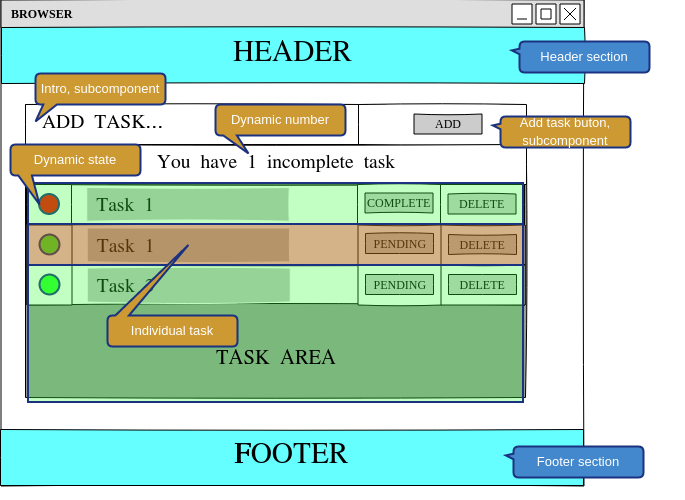
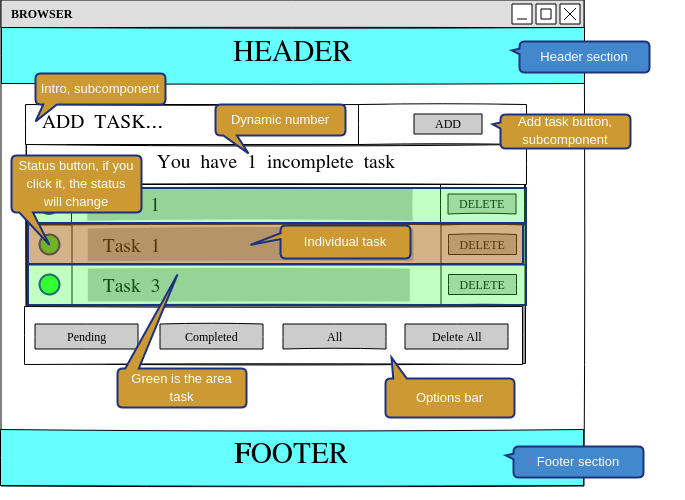
Todo App v 1.0.0

diff --git a/index.html b/index.html
@@ -6,14 +6,81 @@
     <meta name="viewport" content="width=device-width, initial-scale=1.0">
     <meta http-equiv="X-UA-Compatible" content="ie=edge">
     <title>Todo App</title>
-
+    <script src="https://kit.fontawesome.com/d77ebfff74.js" crossorigin="anonymous"></script>
     <link rel="stylesheet" href="https://stackpath.bootstrapcdn.com/bootstrap/4.3.1/css/bootstrap.min.css" integrity="sha384-ggOyR0iXCbMQv3Xipma34MD+dH/1fQ784/j6cY/iJTQUOhcWr7x9JvoRxT2MZw1T" crossorigin="anonymous">
-
     <link rel="stylesheet" href="styles.css">
 </head>
 
 <body>
+    <header class="header-index">
+        <p>HEADER</p>
+    </header>
 
+    <main class="main">
+        <div class="container sizeTodo">
+            <div class="row align-items-center">
+                <div class="col-10">
+                    <input type="text" class="input-group" id="addTask" placeholder="Add your task here">
+                </div>
+                <div class="col-2">
+                    <i class="fas fa-plus-circle fa-2x d-md-none pointer"></i>
+                    <input type="button" class="btn btn-primary btn-sm d-none d-none d-md-block" value="ADD">
+
+                </div>
+            </div>
+            <div class="row m-3">
+                <div class="col-12">
+                    <p class="m-0 p-1">You have 1 incomplete task</p>
+                </div>
+            </div>
+            <div class="row align-items-center mt-2 mb-2">
+                <div class="col-1 p-0 d-flex justify-content-end">
+                    <div class="circle red pointer"></div>
+                </div>
+                <div class="col-9">
+                    <p class="m-0 p-1 task">Task 1</p>
+                </div>
+                <div class="col-2 p-0">
+                    <i class="fas fa-trash-alt fa-lg d-block d-md-none"></i>
+                    <input type="button" class="btn btn-primary btn-sm d-none d-md-block" value="Delete">
+                </div>
+            </div>
+            <div class="row align-items-center mt-2 mb-2">
+                <div class="col-1 p-0 d-flex justify-content-end">
+                    <div class="circle green pointer"></div>
+                </div>
+                <div class="col-9">
+                    <p class="m-0 p-1 task task-completed">Task 2</p>
+                </div>
+                <div class="col-2 p-0">
+                    <i class="fas fa-trash-alt fa-lg d-block d-md-none"></i>
+                    <input type="button" class="btn btn-primary btn-sm d-none d-md-block" value="Delete">
+                </div>
+            </div>
+            <div class="row align-items-center mt-2 mb-2">
+                <div class="col-1 p-0 d-flex justify-content-end">
+                    <div class="circle green pointer"></div>
+                </div>
+                <div class="col-9">
+                    <p class="m-0 p-1 task task-completed">Task 3</p>
+                </div>
+                <div class="col-2 p-0">
+                    <i class="fas fa-trash-alt fa-lg d-block d-md-none"></i>
+                    <input type="button" class="btn btn-primary btn-sm d-none d-md-block" value="Delete">
+                </div>
+            </div>
+            <div class="row d-flex justify-content-center">
+                <input type="button" class="btn btn-primary btn-sm" value="Pending">
+                <input type="button" class="btn btn-primary btn-sm" value="Completed">
+                <input type="button" class="btn btn-primary btn-sm" value="All">
+                <input type="button" class="btn btn-primary btn-sm" value="Delete All">
+            </div>
+        </div>
+    </main>
+
+    <footer class="footer-index ">
+        <p>FOOTER</p>
+    </footer>
 
 </body>
 

diff --git a/styles.css b/styles.css
@@ -1,3 +1,52 @@
-body {
+.header-index {
     background-color: skyblue;
+    text-align: center;
+    padding: 20px;
+}
+
+.main {
+    margin: 20px;
+    height: 100vh;
+}
+
+.sizeTodo {
+    max-width: 800px;
+}
+
+.circle {
+    width: 20px;
+    height: 20px;
+    border-radius: 50%;
+}
+
+.red {
+    background-color: red;
+}
+
+.green {
+    background-color: green;
+}
+
+.task {
+    height: 100%;
+    background-color: lightsteelblue;
+}
+
+.task-completed {
+    text-decoration-line: line-through
+}
+
+.btn {
+    width: 100px;
+    margin: 6px;
+}
+
+.pointer {
+    cursor: pointer;
+}
+
+.footer-index {
+    background-color: skyblue;
+    text-align: center;
+    padding: 20px;
 }
